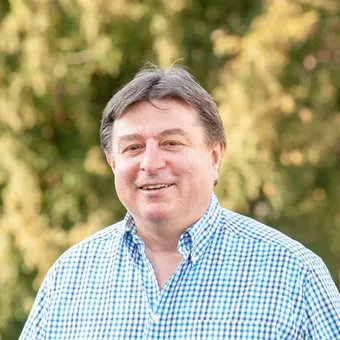
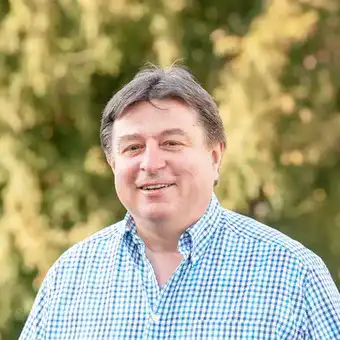
perf: fix LCP by disabling AnimatePresence initial opacity:0 on first load - Add initial={false} to AnimatePresence so the first-load page render   starts with opacity:1 instead of 0. Chrome does not record LCP for   elements inside opacity:0 containers, causing the entire 2.8s render   delay to cou

Changed region(s): [[0.5, 0.7941, 0.5294, 0.8235]]

diff --git a/src/App.tsx b/src/App.tsx
@@ -80,7 +80,7 @@ export default function App() {
       )}
 
       <main id="main-content">
-        <AnimatePresence mode="wait">
+        <AnimatePresence mode="wait" initial={false}>
           <motion.div
             key={'/' + location.pathname.split('/')[1]}
             initial={{ opacity: 0, y: direction > 0 ? 36 : -28 }}
